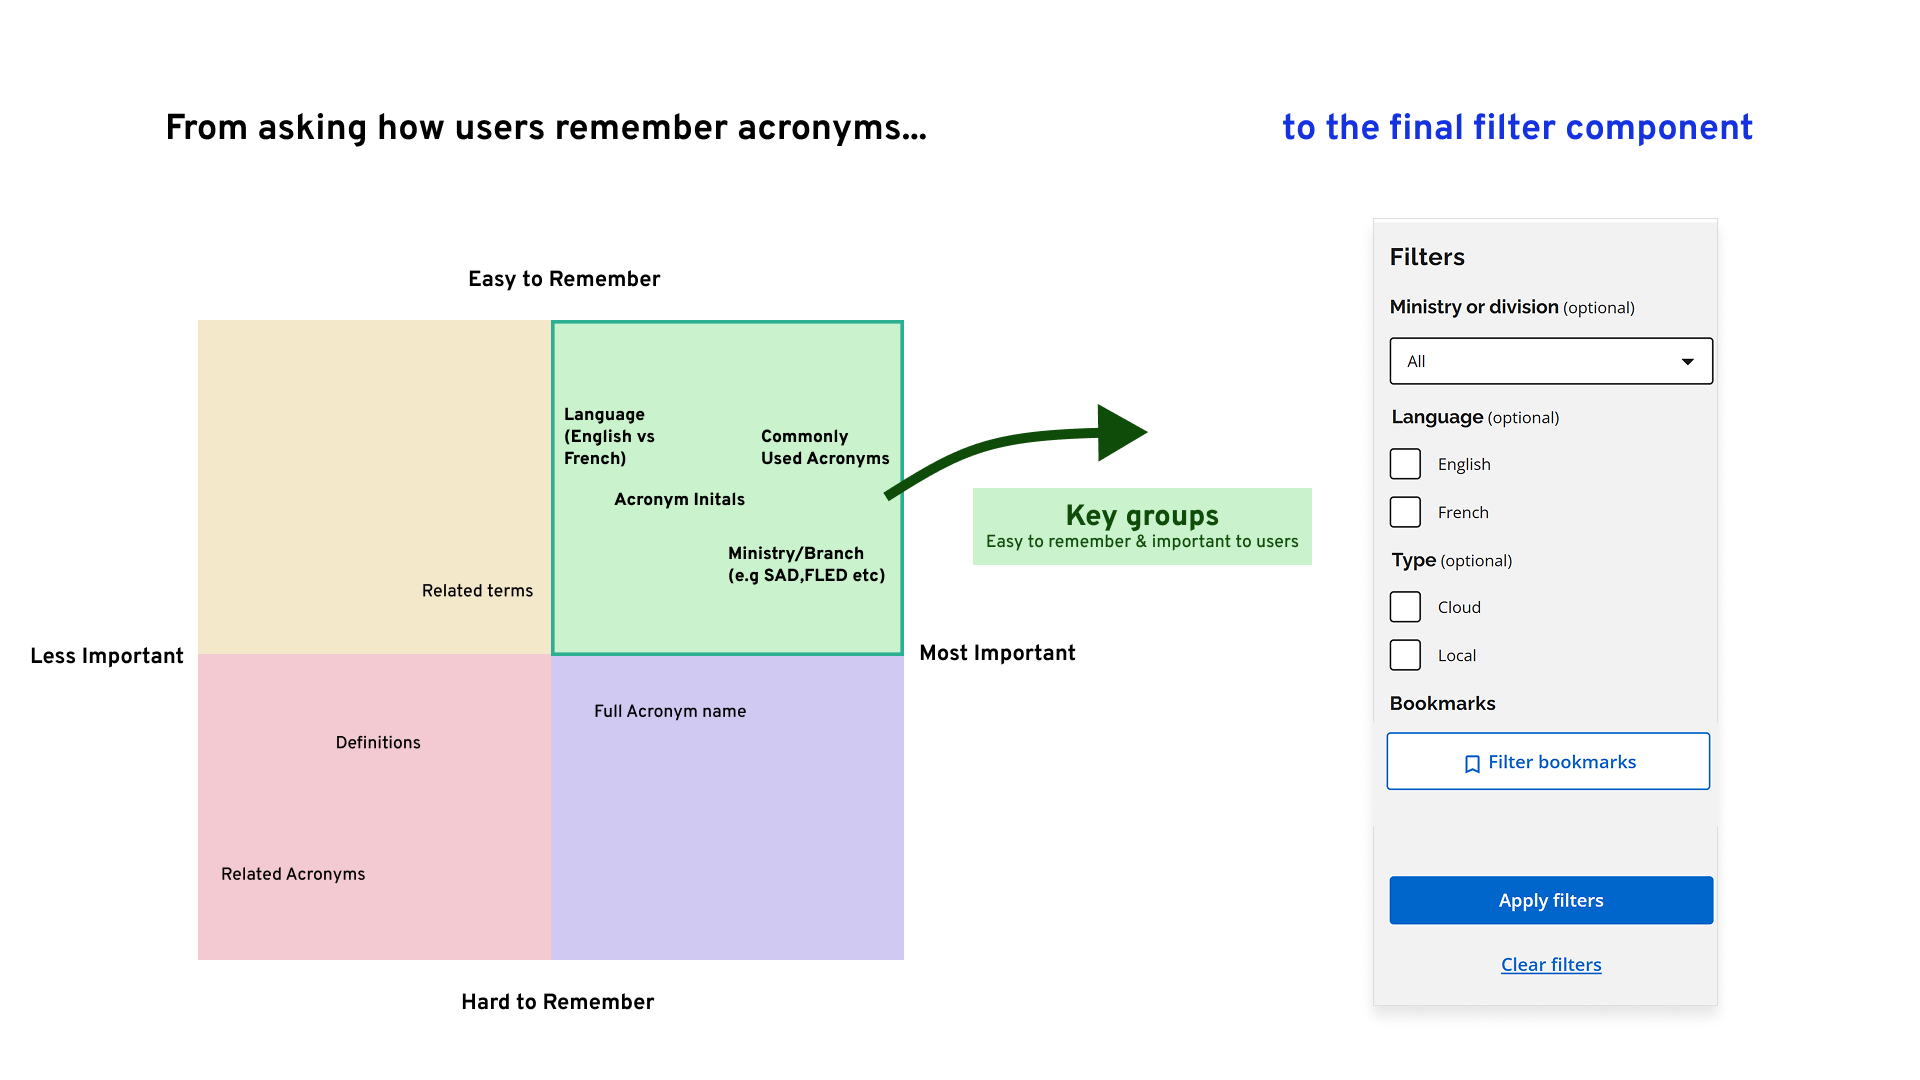
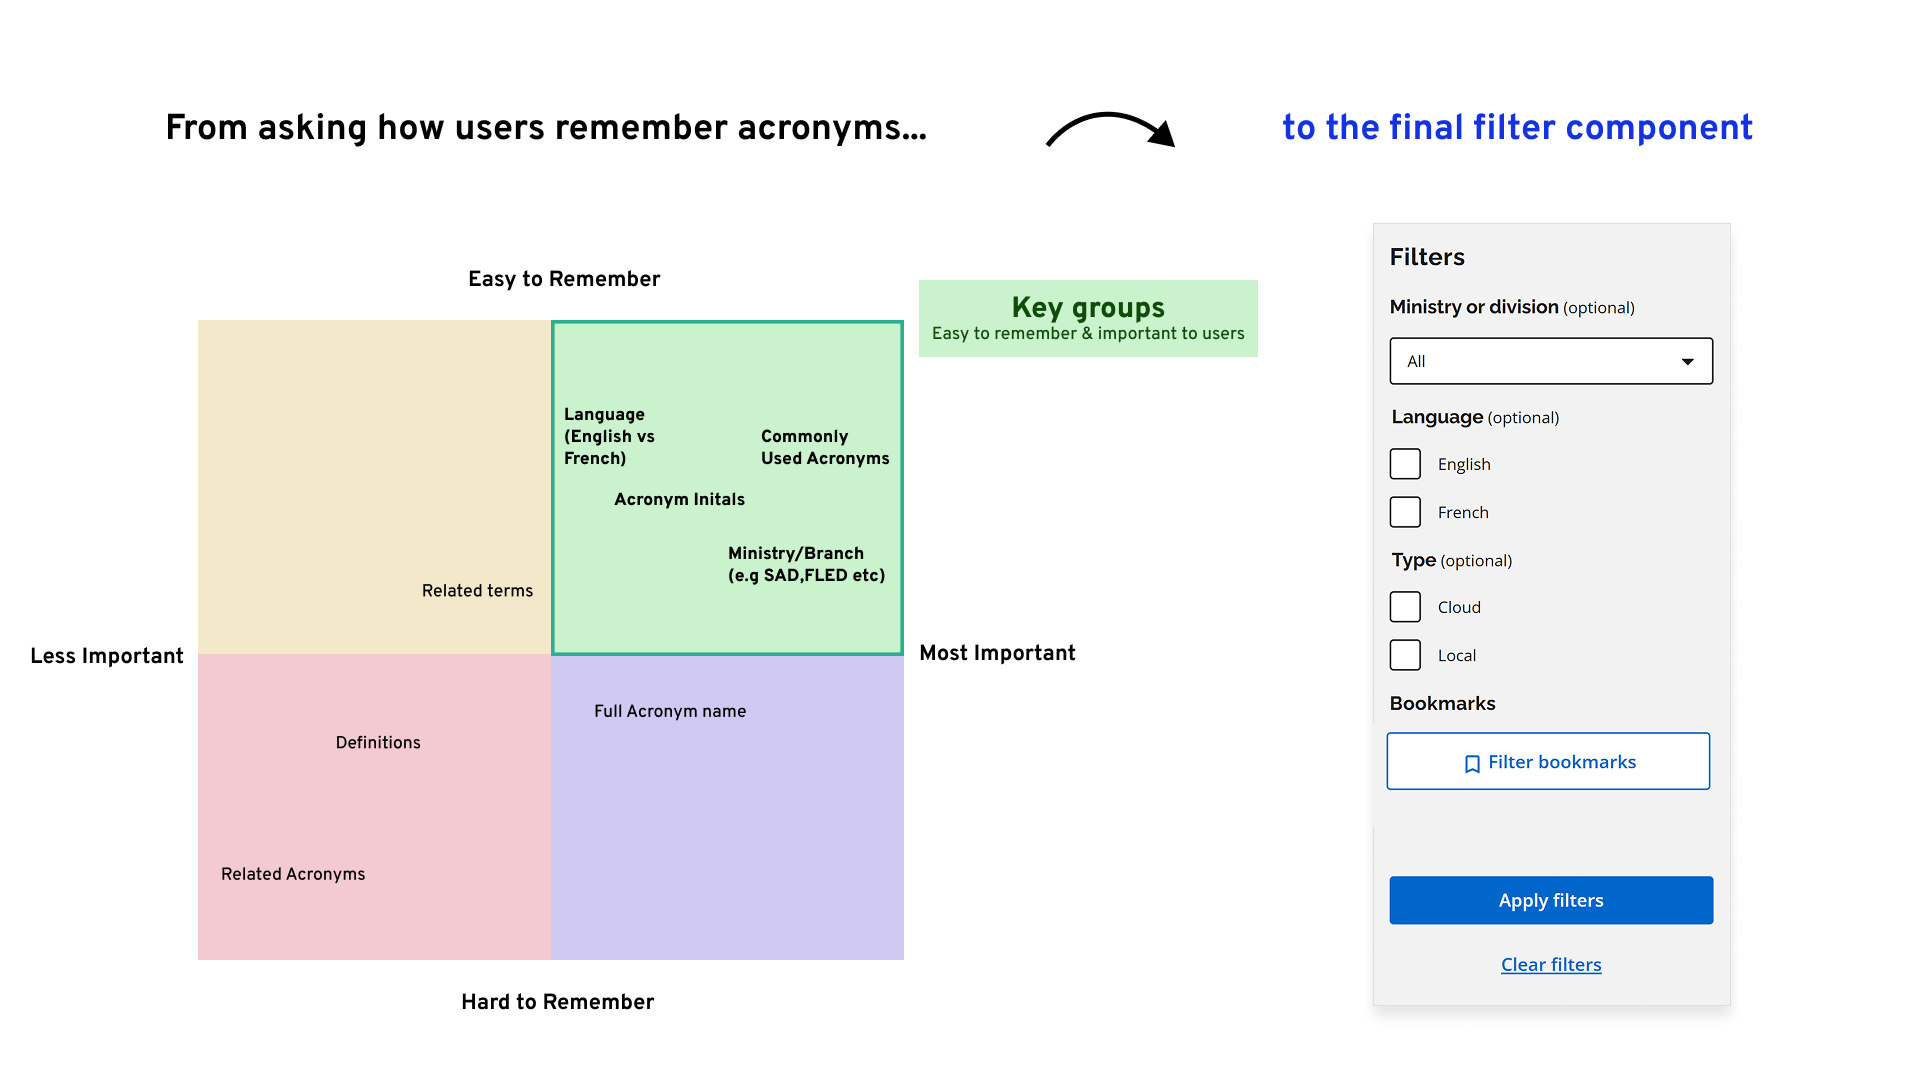
add admin pictures

Changed region(s): [[0.4688, 0.3667, 0.6875, 0.55], [0.4688, 0.2444, 0.6562, 0.3361], [0.5625, 0.0917, 0.625, 0.1528]]

diff --git a/portfolio/app/rollodex/page.tsx b/portfolio/app/rollodex/page.tsx
@@ -138,6 +138,13 @@ export default function Page() {
                     "Personal trackers lacked security and could be leaked to unauthorized users",
                   ]}
                 />  
+
+                <h3> Creating a secure platform that allowed for updates to be made</h3>
+                <p> One of the major point with existing systems of acronym management was that they were not updatable. Vibecode trackers esepcailly had a lot of security concerns, as the databases could be shared b sharing a link, without any password protection.   </p>
+
+                <img src="/images/rollodex/rollodex_safety.png" alt="Safety features of Rollodex" />
+                <p>To mitigate this, an admin panel was created, allowing for the updating of the database by managers who could not only add new acronyms, but also edit and delete existing ones.This allowed for both the Rollodex and Admin t be password protected, meaning that only authorized users could access the system. </p> 
+                <img src="/images/rollodex/rollodex_admindiagram.png" alt="Diagram of the admin panel and how it works" />
 <h3>Creating a filtering strategy</h3>
                 <p> One strategy that was used to test the filtering capabities ws a quick co-design sessions, where I gather members of the branch acronyms, and test out how they personally "filtered" for acronyms they needed to use in their work </p>
 <img src="/images/rollodex/rollodex_codesign.png" alt="Co-design session with branch acronyms" />
